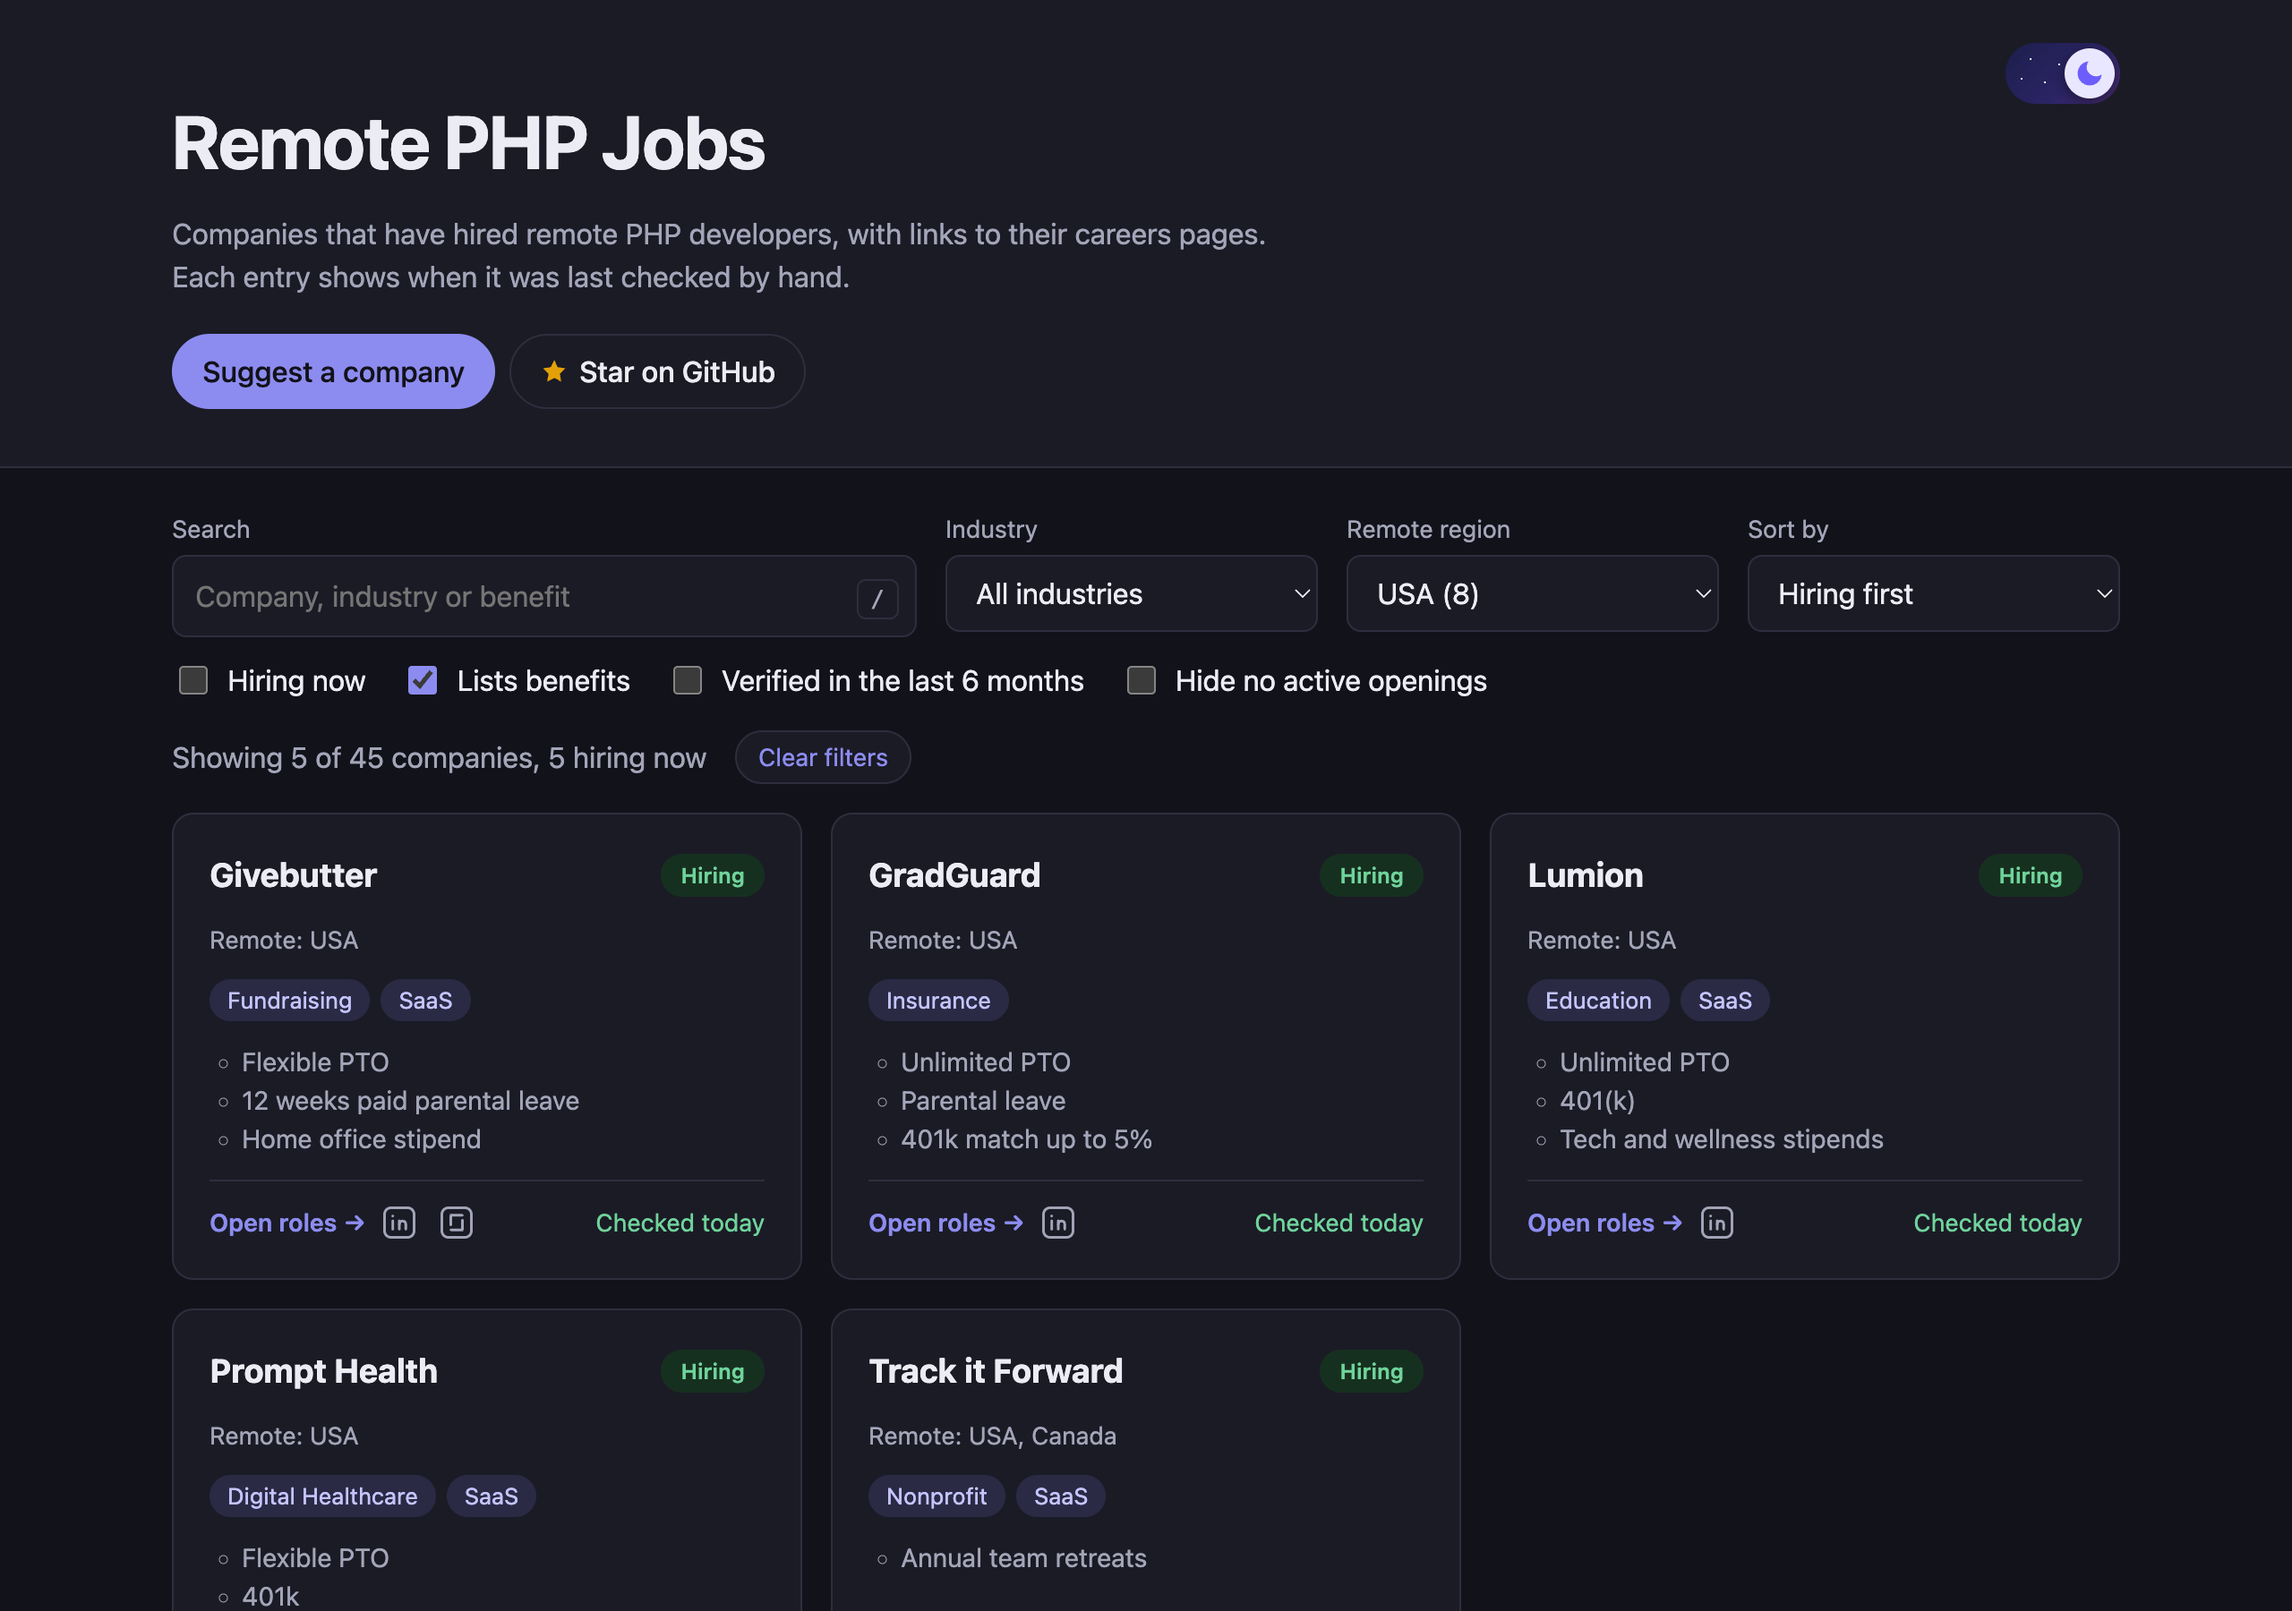
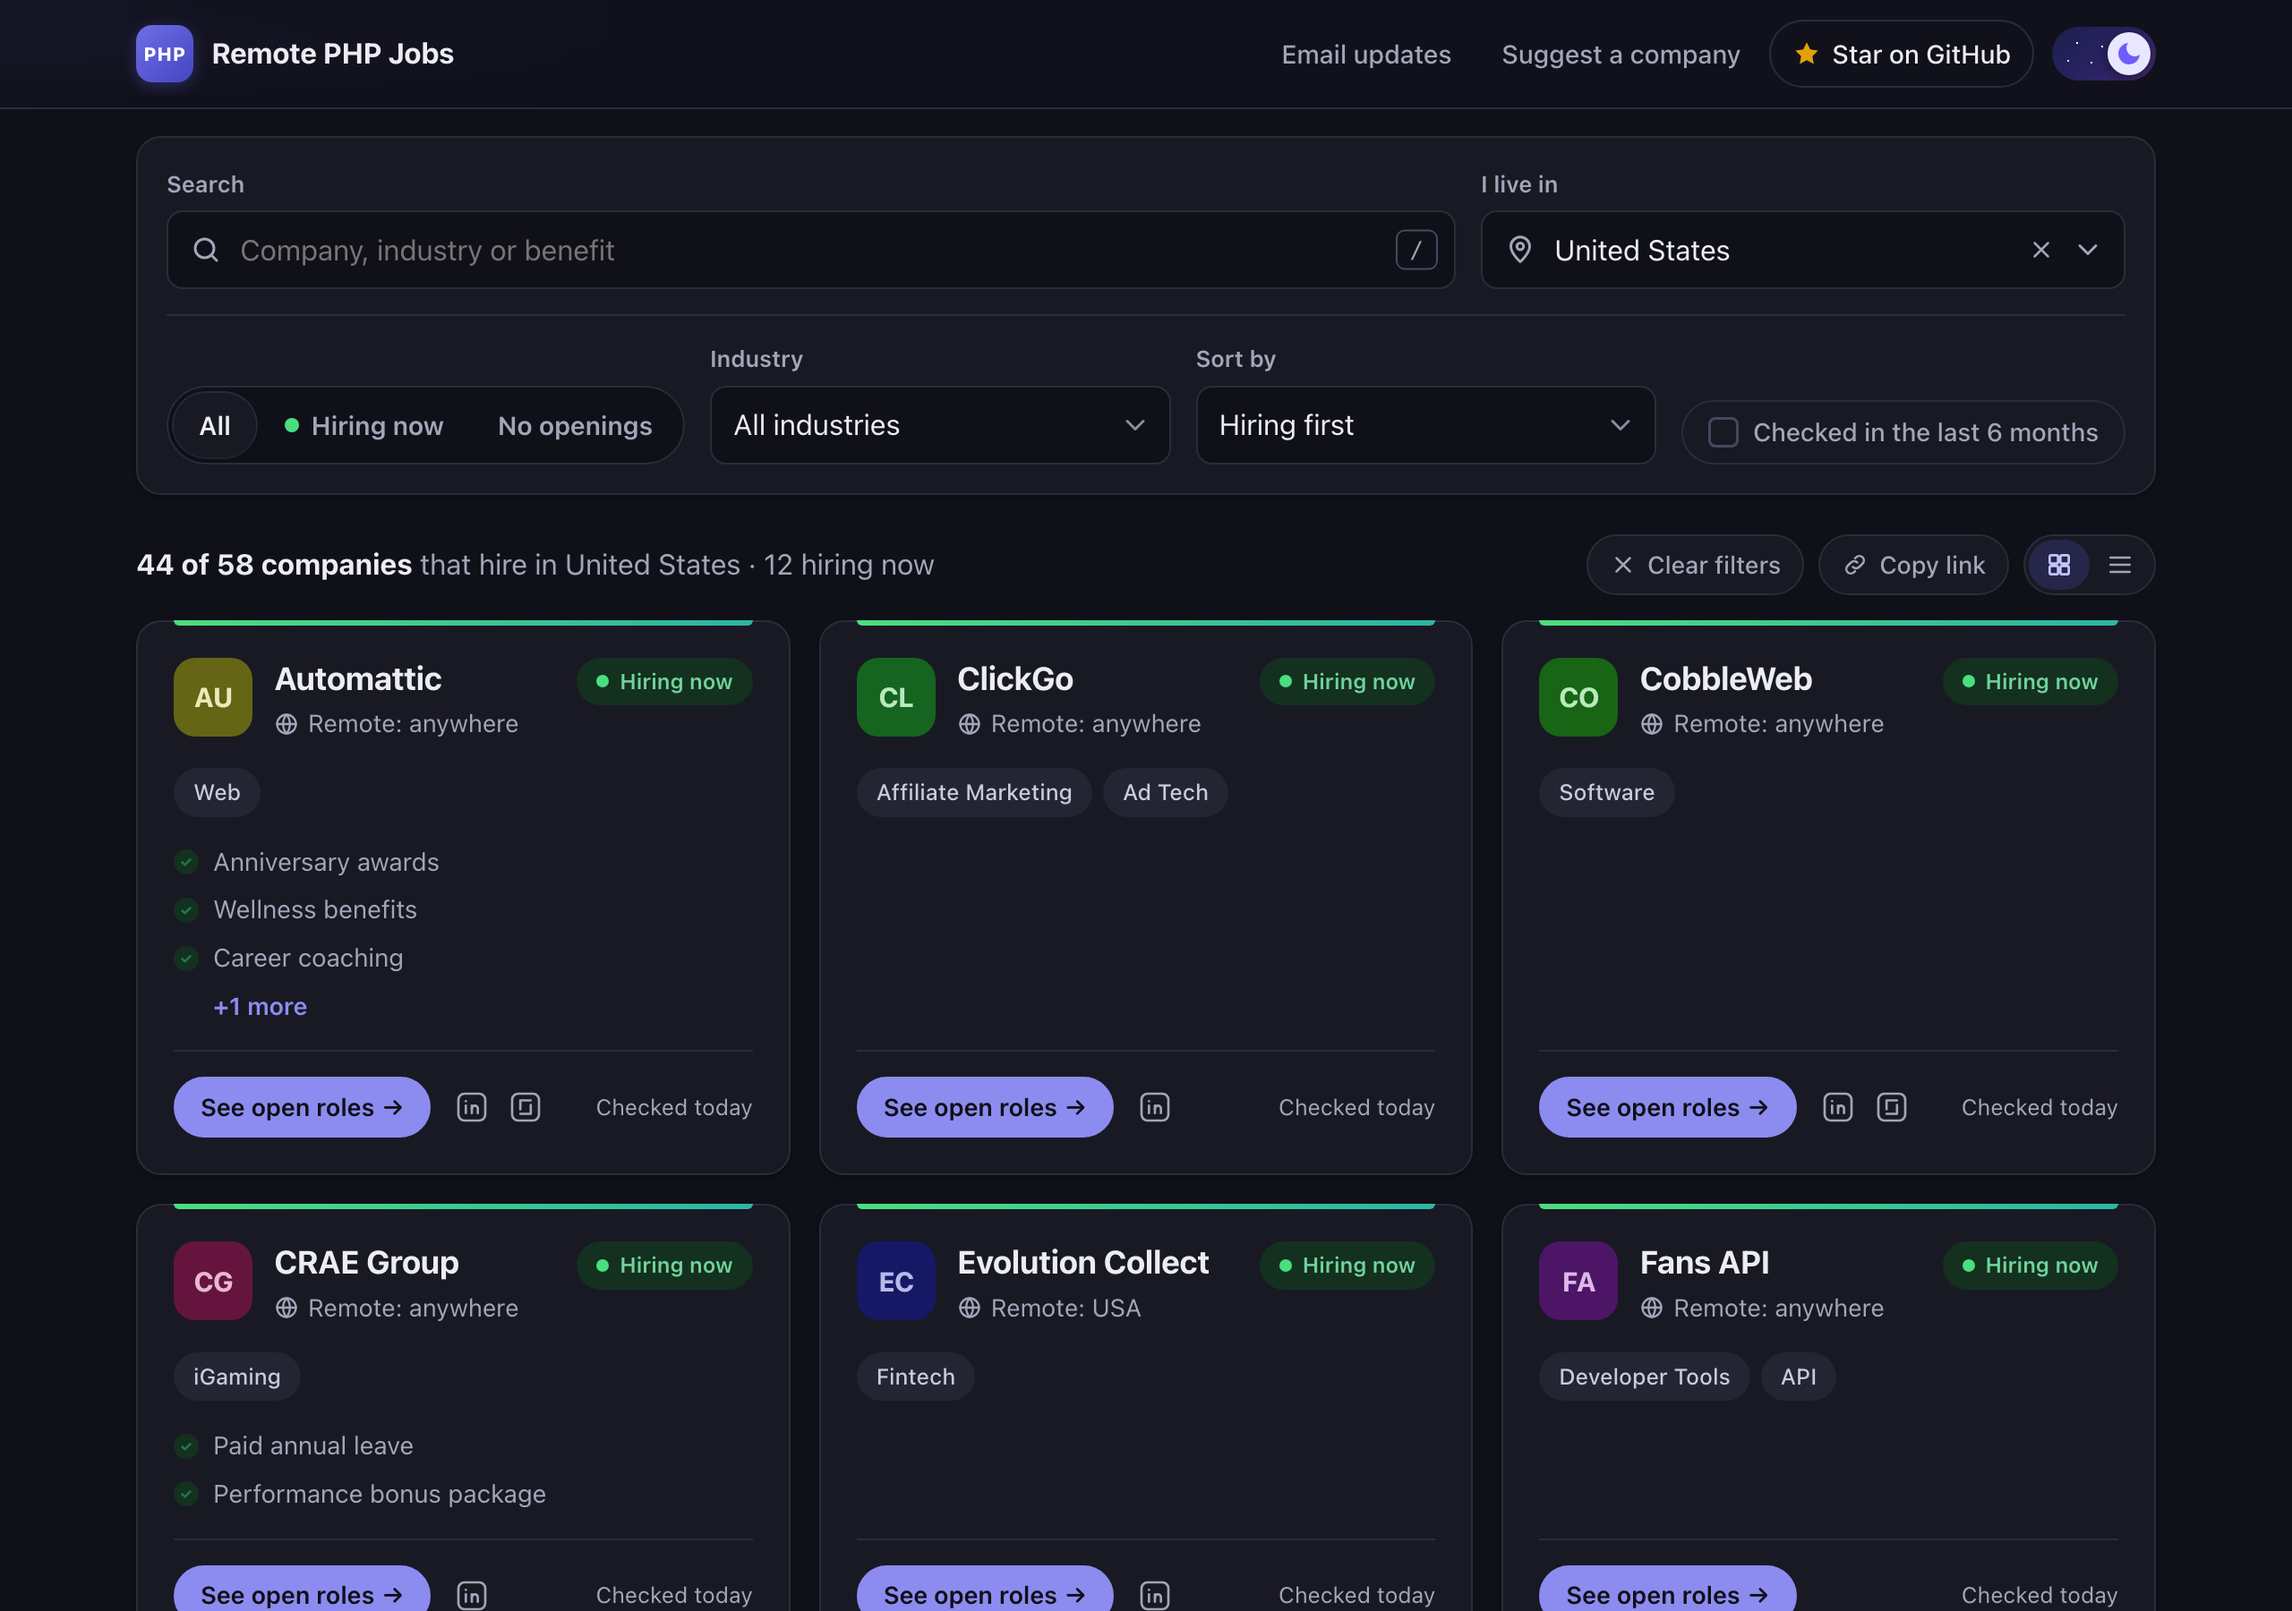
Update README screenshots for the redesign and keep card footers on one line

diff --git a/site/style.css b/site/style.css
@@ -1269,7 +1269,7 @@ button {
   display: flex;
   flex-wrap: wrap;
   align-items: center;
-  gap: 10px 12px;
+  gap: 8px;
   margin-top: auto;
   padding-top: 14px;
   border-top: 1px solid var(--border);
@@ -1318,15 +1318,15 @@ button {
 
 .links {
   display: flex;
-  gap: 4px;
+  gap: 0;
   margin-right: auto;
 }
 
 .icon-link {
   display: inline-grid;
   place-items: center;
-  width: 32px;
-  height: 32px;
+  width: 30px;
+  height: 30px;
   border-radius: 8px;
   color: var(--muted);
   transition: background-color 0.2s ease, color 0.2s ease;
@@ -1344,7 +1344,8 @@ button {
 
 .verified {
   color: var(--muted);
-  font-size: 0.8rem;
+  margin-left: auto;
+  font-size: 0.78rem;
   white-space: nowrap;
 }
 
